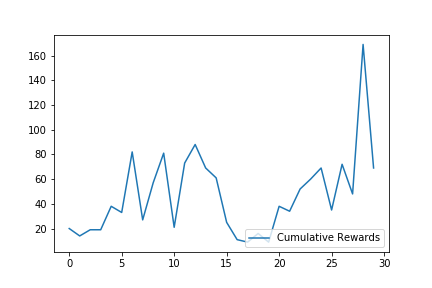
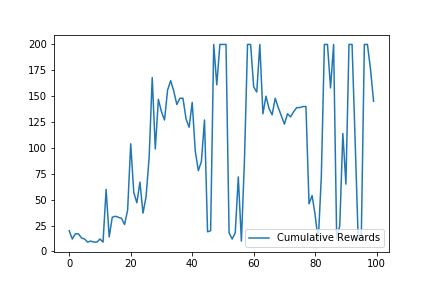
Relocated callbacks. Added test_network method.

diff --git a/rltoolkit/utils/model_utils.py b/rltoolkit/utils/model_utils.py
@@ -44,46 +44,48 @@ class ReplayBuffer:
     batch_size = min(self.size, batch_size)
     return random.sample(self.memory, batch_size)
 
-class Checkpoint:
+def test_network(nn, env, episodes=1, render=False, verbose=0):
   """
-    Model utility that saves the best model during episode runs
+    Tests a Keras neural network by running it through an environment
+
+    # Arguments
+    nn: Keras nueral network.
+    env: Gym environment.
+    episodes: How many episodes to run through gym environment.
+    render: Pass True to render at each step.
+    verbose: Int. Reports results of training after this many episodes. 
   """
-
-  def __init__(self,filename,save_weights_only=False):
-    """
-      # Arguments
-        filename: target filename to save model file to
-        save_weights_only: If set to False, saves model architecture and weights.
-          if True, saves only weights.
-    """
-    self.filename = filename
-    self.max_reward = None
-    self.best_model = None
-    self.save_weights_only = save_weights_only
-
-  def run(self,obj,rewards):
-    """
-      Determines if the best model stored has been improved.
-      If so, saves the new best model. 
-
-      # Arguments
-        obj: A RL Method. Used to acquire methods network instance variable.
-        rewards: list of rewards obtained during an episode.
-    """
-    updated = False #save again?
-    if self.max_reward is None:
-      updated = True
-      self.max_reward = sum(rewards)
-      self.best_model = obj.nn
-    else:
-      reward = sum(rewards)
-      if reward >= self.max_reward:
-        updated = True
-        self.max_reward = reward
-        self.best_model = obj.nn
-    
-    if updated:
-      if self.save_weights_only:
-        self.best_model.save_weights(self.filename)
+  discrete = hasattr(env.action_space, 'n') #environment is discrete
+  
+  total_rewards = []
+  for i in range(episodes):
+    done = False
+    rewards = []
+    envstate = env.reset()
+    while not done:
+      #determine action
+      qvals = nn.predict(np.expand_dims(envstate, axis=0))[0]
+      if discrete:
+        action = np.argmax(qvals)
       else:
-        self.best_model.save(self.filename)
+        action = qvals
+
+      #take action
+      envstate, reward, done, info = env.step(action)
+      rewards.append(reward)
+
+      if render:
+        env.render()
+    
+    total_rewards.append(sum(rewards))
+
+    if verbose and i % verbose == 0:
+      results = f'Episode: {i+1}/{episodes} | ' + \
+        f'Reward: {sum(rewards):.4f}'
+      print(results)
+  
+  if render:
+    env.close()
+
+  result = round(sum(total_rewards)/len(total_rewards), 5)
+  return result

diff --git a/rltoolkit/callbacks/callbacks.py b/rltoolkit/callbacks/callbacks.py
@@ -79,3 +79,47 @@ class Graph:
     self._plot(version, loc)
     plt.savefig(filename)
     plt.close()
+
+class Checkpoint:
+  """
+    Model utility that saves the best model during episode runs
+  """
+
+  def __init__(self,filename,save_weights_only=False):
+    """
+      # Arguments
+        filename: target filename to save model file to
+        save_weights_only: If set to False, saves model architecture and weights.
+          if True, saves only weights.
+    """
+    self.filename = filename
+    self.max_reward = None
+    self.best_model = None
+    self.save_weights_only = save_weights_only
+
+  def run(self,obj,rewards):
+    """
+      Determines if the best model stored has been improved.
+      If so, saves the new best model. 
+
+      # Arguments
+        obj: A RL Method. Used to acquire methods network instance variable.
+        rewards: list of rewards obtained during an episode.
+    """
+    updated = False #save again?
+    if self.max_reward is None:
+      updated = True
+      self.max_reward = sum(rewards)
+      self.best_model = obj.nn
+    else:
+      reward = sum(rewards)
+      if reward >= self.max_reward:
+        updated = True
+        self.max_reward = reward
+        self.best_model = obj.nn
+    
+    if updated:
+      if self.save_weights_only:
+        self.best_model.save_weights(self.filename)
+      else:
+        self.best_model.save(self.filename)

diff --git a/examples/cartpole/cartpole.py b/examples/cartpole/cartpole.py
@@ -4,7 +4,8 @@ from keras.models import Sequential, load_model
 from keras.layers import Dense
 from keras.optimizers import Adam
 from rltoolkit.methods import DQL
-from rltoolkit.utils import Checkpoint, Graph
+from rltoolkit.utils import test_network
+from rltoolkit.callbacks import Checkpoint, Graph
 
 env = gym.make('CartPole-v0')
 try:
@@ -29,7 +30,7 @@ graph = Graph()
 #Make a checkpoint to save best model during training
 ckpt = Checkpoint('cartpole.h5')
 #Train neural network for 50 episodes
-method.train(model, env, 50, epsilon_decay=.9, callbacks=[ckpt, graph])
+method.train(model, env, 100, epsilon_decay=.9, callbacks=[ckpt, graph])
 
 #Save and show rewards
 graph.show()
@@ -39,5 +40,6 @@ graph.save('cartpole.png')
 model = load_model('cartpole.h5')
 
 #Test models results for 5 episodes
-method.test(model, env, 5)
+avg = test_network(model, env, episodes=100, render=False, verbose=0)
+print('Average after 100 episodes:', avg)
 

diff --git a/rltoolkit/utils/__init__.py b/rltoolkit/utils/__init__.py
@@ -1,3 +1,2 @@
-from .model_utils import ReplayBuffer, Checkpoint
+from .model_utils import ReplayBuffer, test_network
 from .format_utils import format_time
-from .graph_utils import Graph

diff --git a/rltoolkit/__init__.py b/rltoolkit/__init__.py
@@ -1,2 +1,3 @@
 from . import methods
 from . import utils
+from . import callbacks

diff --git a/rltoolkit/callbacks/__init__.py b/rltoolkit/callbacks/__init__.py
@@ -1,0 +1,1 @@
+from .callbacks import Checkpoint, Graph
